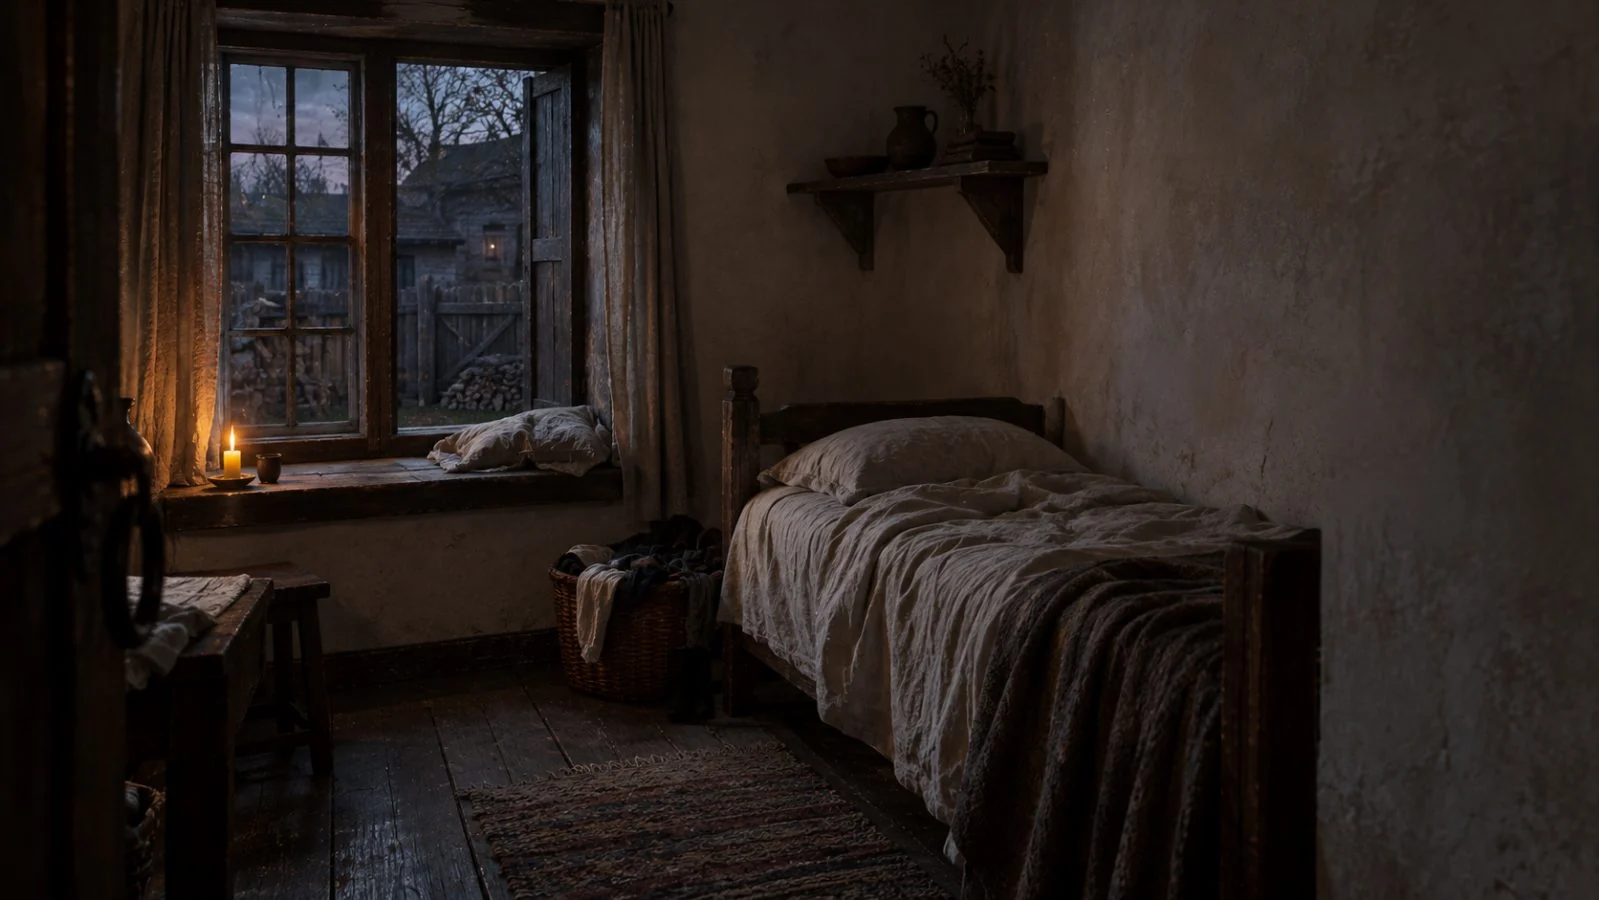
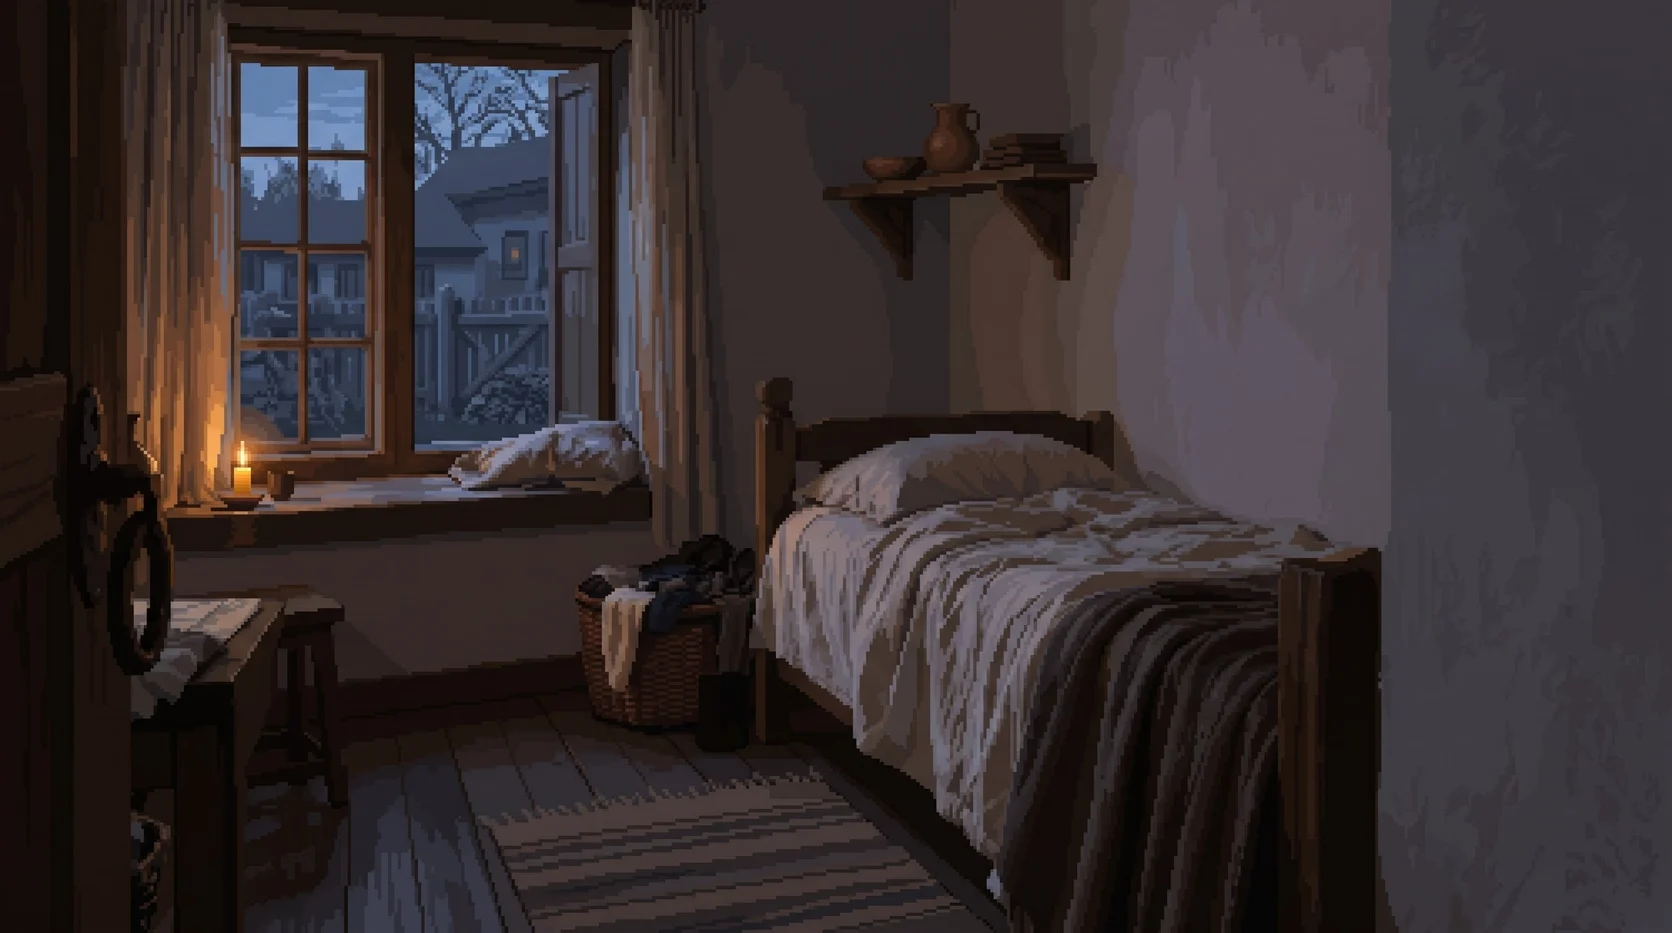
ПОРТ: комната Фреи и кухня «Синего часа» в спокойном пикселе (6 из 48)
Claude-Session: https://claude.ai/code/session_01AohsHedWdkfggLZ7wdatry

diff --git a/Игры/Порт/ДОСКА.md b/Игры/Порт/ДОСКА.md
@@ -153,7 +153,7 @@
 | Р21 | **Пролог (третья версия 12.11, по отзыву автора «ролик стрёмный, перебор с плёнкой, звук хрипит, музыка не та, текст странный — 3/10»).** Видео убрано совсем. Один пиксельный кадр прибытия оживает: вода колышется (пиксели воды и отражения огней построчно, 12 кадров в секунду), камера медленно подходит; без растра, зерна и цветокоррекции. Текст как в комиксе: рассказ — бумажной подписью в углу кадра, реплика — облаком с головой говорящего (грузчик — временная голова с фото-кандидата `Ресурсы/Лица/port_gruzchik_golova.webp`, ждёт живописного пикселя, Р23). Бросок швартова — физика каната (стравливается с руки, ложится на борт, петля на тумбу / в воду / за тумбу). Разговор — камера подходит к причалу, на «схоронили» кадр темнеет и музыка уходит в тишину; «Ты не знал.» в темноте → выбор начала. Звук: синтезированный шум моря убран (он хрипел), под рассказом — тема доков. Код `Движок/пролог.js`, строки `Данные/вступление.js`, тест `пролог.mjs`. **Ждёт автора:** оценка третьей версии; лицо грузчика (старшого) в живописном пикселе; озвучка (13.11) — ключа ElevenLabs у автора нет, делаем открытыми моделями в контейнере: синтез Piper (или Silero), проверка распознаванием faster-whisper. Тексты с тегами — `Данные/озвучка-пролога.js`, сверка слов с субтитрами — в `пролог.mjs`. В окружение «Телефон» уже добавлены Hugging Face и Silero; **ещё нужны два адреса — `us.aws.cdn.hf.co` (файлы моделей) и `download-r2.pytorch.org` (PyTorch для Silero)**, подтвердить можно только с ПК. Потом — доска проб (по 3–4 голоса, спокойно и с эмоцией) и выбор автора; вопросы истории В65–В70 | Вступление |
 | Р22 | **Линия Уны Марш — отложено автором 12.11, доделать потом.** У Уны теперь портрет (`Ресурсы/Лица/port_una_marsh_art.webp`: невинное закрытое платье, покрывало, ухмылка, рука у пряди). Автор хочет полноценную запретную любовную линию, не четыре намёка. Черновой ход в 10 шагов (свеча, ниша с книгами, исповедальня, город без покрывала, ставни под дождём, поминальный день 20-го, слух, Второй журнал, отъезд) и вопросы В71–В74 (насколько далеко, почему нельзя, финал, возраст) — в Редакторе, `Канон/Редактор/01_Ждёт_тебя.md`. Диалоги не писать, пока автор не ответит | Чат 12.11, портреты |
 | Р23 | **Портреты в живописный пиксель — идёт 12.11.** Все лица переводятся из фото в стиль Мэсти через Gemini (новый чат на каждый, пурпурный фон, 2–3 попытки на сходство), вырезка — `Скрипты/вырезать_портрет.py`, файл `*_art.webp`, в данных `портрет:` переключается на него. Страница с промтами — `Игры/Сайт/portrety.html` (сборка `Скрипты/portrety_page.py`). Готово: Нора, Сиб, Старшая, Ния, Уна. Ждут: остальные 21 из 26, у 35 жителей портрета нет совсем | Чат 12.11, портреты |
-| Р24 | **Фоны в спокойный пиксель — начато 13.11.** Эталон — `Ресурсы/Быт/вдова.webp` (выбор автора из 10). 48 фонов: 28 фонов мест, плюс отмеченные автором (пристань у трапа, кухня после смены, торговый и маяк — бледные, улица финала) и похожие на них (доки, работы, пролог, город). Страница с промтами — `Игры/Сайт/fony.html` (сборка `Скрипты/fony_page.py`), палитры общие с портретами (`Скрипты/palitry.py`). Готово: 4 из 48 — крыльцо, общий зал, коридор и комната Нии «Синего часа» (старые — `Источники_Арта/Альтернативы/`) | Чат 13.11, фоны |
+| Р24 | **Фоны в спокойный пиксель — начато 13.11.** Эталон — `Ресурсы/Быт/вдова.webp` (выбор автора из 10). 48 фонов: 28 фонов мест, плюс отмеченные автором (пристань у трапа, кухня после смены, торговый и маяк — бледные, улица финала) и похожие на них (доки, работы, пролог, город). Страница с промтами — `Игры/Сайт/fony.html` (сборка `Скрипты/fony_page.py`), палитры общие с портретами (`Скрипты/palitry.py`). Готово: 6 из 48 — «Синий час»: крыльцо, зал, коридор, комнаты Нии и Фреи, кухня (старые — `Источники_Арта/Альтернативы/`) | Чат 13.11, фоны |
 
 ## 2. Ждёт вычитки или текста автора
 
